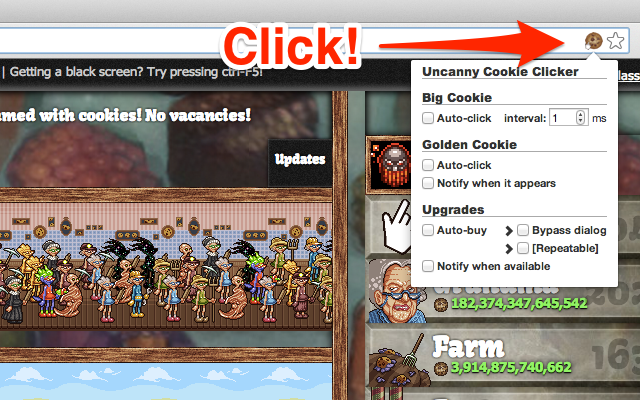
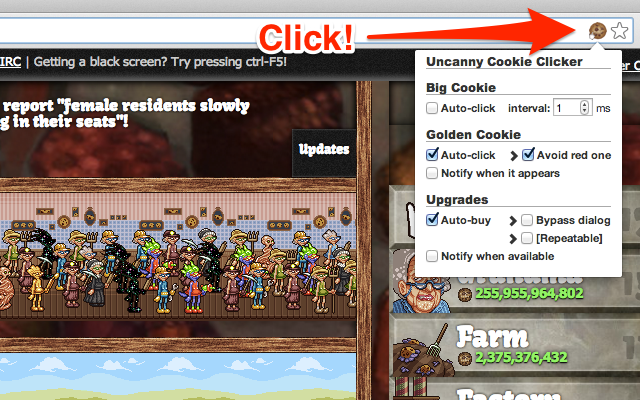
Added an option to avoid clicking red cookies
Also fixed a bug that overrides a config value with the default value
if the config value is false and the default value is true.

diff --git a/src/js/popup.js b/src/js/popup.js
@@ -17,6 +17,7 @@
     var autoClickCookie = $('#auto-click-cookie'),
       autoClickCookieInterval = $('#auto-click-cookie-interval'),
       autoClickGoldenCookie = $('#auto-click-golden-cookie'),
+      avoidRedCookie = $('#avoid-red-cookie'),
       notifyGoldenCookie = $('#notify-golden-cookie'),
       autoBuyUpgrades = $('#auto-buy-upgrades'),
       bypassDialogForUpgrades = $('#bypass-dialog-for-upgrades'),
@@ -41,6 +42,9 @@
 
       if (items.autoClickGoldenCookie)
         autoClickGoldenCookie.prop('checked', true);
+
+      if (items.avoidRedCookie)
+        avoidRedCookie.prop('checked', true);
 
       if (items.notifyGoldenCookie)
         notifyGoldenCookie.prop('checked', true);
@@ -101,6 +105,21 @@
         r = { stopAutoClickGoldenCookie: [] };
 
       storage.set({ autoClickGoldenCookie: this.checked });
+
+      doTabs(function (tab) {
+        pageMessagingClient.sendConfigRequest(tab.id, r);
+      });
+    });
+
+    avoidRedCookie.click(function () {
+      var r = {};
+
+      if (this.checked)
+        r = { avoidRedCookie: [] };
+      else
+        r = { stopAvoidRedCookie: [] };
+
+      storage.set({ avoidRedCookie: this.checked });
 
       doTabs(function (tab) {
         pageMessagingClient.sendConfigRequest(tab.id, r);

diff --git a/src/js/modules/GameClient.js b/src/js/modules/GameClient.js
@@ -19,7 +19,8 @@ var gameClient = function (WatchJS, Game, pageMessagingClient) {
     availableUpgradesWatchers = [],
     availableUpgrades = [],
     upgradesBypassDialog = false,
-    upgradesRepeatable = false;
+    upgradesRepeatable = false,
+    redCookieAvoidance = false;
 
   var clickCookie = function () {
     Game.ClickCookie();
@@ -38,7 +39,17 @@ var gameClient = function (WatchJS, Game, pageMessagingClient) {
   };
 
   var clickGoldenCookie = function () {
+    if (Game.goldenCookie.wrath > 0 && redCookieAvoidance)
+      return;
     Game.goldenCookie.click();
+  };
+
+  var stopAvoidRedCookie = function () {
+    redCookieAvoidance = false;
+  };
+
+  var avoidRedCookie = function () {
+    redCookieAvoidance = true;
   };
 
   var goldenCookieWatcher = function (prop, action, newValue, oldValue) {
@@ -197,6 +208,9 @@ var gameClient = function (WatchJS, Game, pageMessagingClient) {
     clickGoldenCookie: clickGoldenCookie,
     autoClickGoldenCookie: autoClickGoldenCookie,
     stopAutoClickGoldenCookie: stopAutoClickGoldenCookie,
+
+    avoidRedCookie: avoidRedCookie,
+    stopAvoidRedCookie: stopAvoidRedCookie,
 
     notifyGoldenCookie: notifyGoldenCookie,
     stopGoldenCookieNotification: stopGoldenCookieNotification,

diff --git a/src/html/popup.html b/src/html/popup.html
@@ -47,6 +47,17 @@
               <input type="checkbox" id="auto-click-golden-cookie" />
               Auto-click
             </label>
+            <div class="option">
+              <ul>
+                <li>
+                  <span class="glyphicon glyphicon-chevron-right"></span>
+                  <label>
+                    <input type="checkbox" id="avoid-red-cookie" />
+                    Avoid red one
+                  </label>
+                </li>
+              </ul>
+            </div>
           </li>
           <li>
             <label>

diff --git a/src/js/modules/storage.js b/src/js/modules/storage.js
@@ -10,7 +10,8 @@ var storage = function (config) {
         if (!items)
           return callback(items);
         Object.keys(defaultKeyVals).forEach(function (key) {
-          items[key] = items[key] || defaultKeyVals[key];
+          if (items[key] === undefined)
+            items[key] = defaultKeyVals[key];
         });
         return callback(items);
       });

diff --git a/src/js/modules/backgroundHandlers.js b/src/js/modules/backgroundHandlers.js
@@ -25,6 +25,9 @@ var backgroundHandlers = function (storage, notifications) {
         if (items.autoClickGoldenCookie)
           r.autoClickGoldenCookie = [];
 
+        if (items.avoidRedCookie)
+          r.avoidRedCookie = [];
+
         if (items.notifyGoldenCookie)
           r.notifyGoldenCookie = [];
 

diff --git a/src/js/modules/config.js b/src/js/modules/config.js
@@ -10,6 +10,7 @@ var config = function () {
       autoClickCookie: false,
       autoClickCookieInterval: 1,
       autoClickGoldenCookie: false,
+      avoidRedCookie: true,
       notifyGoldenCookie: false,
       autoBuyUpgrades: false,
       bypassDialogForUpgrades: false,

diff --git a/README.md b/README.md
@@ -4,7 +4,7 @@
 [Cookie Clicker][]. Currently supported features are:
 
 - Auto-click the big cookie at given interval
-- Auto-click a golden cookie when it appears
+- Auto-click a golden cookie when it appears (avoiding red cookies if you want)
 - Notify you when a golden cookie appears
 - Auto-buy upgrades
 - Notify you when upgrades become available
